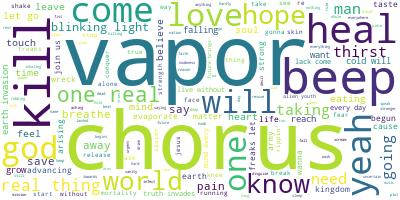
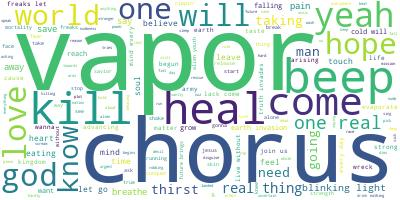
Corrigir chamar funções

diff --git a/graficos.py b/graficos.py
@@ -70,7 +70,7 @@ def grafico_musica_mais_curta_carreira(dataframe):
     plt.title("Músicas mais curtas em toda a carreira")
     plt.subplots_adjust(top=0.96)
     return plt.savefig('imagens\Grupo 1\Músicas mais curtas em toda a carreira.png')
-
+grafico_musica_mais_curta_carreira(dataframe)
 #Músicas mais longas e músicas mais curtas [em toda a história da banda ou artista]
 def grafico_musica_mais_ouvida_carreira(dataframe):
     mais_ouvidas_carreira, menos_ouvidas_carreira = pg.musica_ouvida_carreira(dataframe)
@@ -80,7 +80,7 @@ def grafico_musica_mais_ouvida_carreira(dataframe):
     plt.title("Músicas mais populares em toda a carreira")
     plt.subplots_adjust(top=0.96)
     return plt.savefig('imagens\Grupo 1\Músicas mais populares em toda a carreira.png')
-
+grafico_musica_mais_ouvida_carreira(dataframe)
 def grafico_musica_menos_ouvida_carreira(dataframe):
     mais_ouvidas_carreira, menos_ouvidas_carreira = pg.musica_ouvida_carreira(dataframe)
     grafico = sns.catplot(data=menos_ouvidas_carreira, x="Popularidade", y="Músicas",
@@ -89,7 +89,7 @@ def grafico_musica_menos_ouvida_carreira(dataframe):
     plt.title("Músicas menos populares em toda a carreira")
     plt.subplots_adjust(top=0.96)
     return plt.savefig('imagens\Grupo 1\Músicas menos populares em toda a carreira.png')
-
+grafico_musica_menos_ouvida_carreira(dataframe)
 
 #Voltando o dataframe original para o resto das funções
 dataframe = pd.read_excel('BD - Skillet.xlsx')

diff --git a/testegraf.py b/testegraf.py
@@ -1,6 +1,10 @@
 import seaborn as sns
 import pandas as pd
 import perguntas as pg
+from PIL import Image
+from wordcloud import STOPWORDS, WordCloud, ImageColorGenerator
+import interface as it
+import numpy as np
 
 dataframe = pd.read_excel('BD - Skillet.xlsx')
 sentido_palavras = pd.read_excel('Positive and Negative Word List.xlsx')
@@ -24,11 +28,11 @@ try:
 
     # Gerando a wordcloud
     wctitulo = WordCloud(background_color="white", mask=titulomusicaetmask, contour_width=3, contour_color="black")
-    wctitulo.generate(palavras_titulo_musica)
+    wctitulo.generate(df_negativas)
 
     # Mudando as cores.
     cores = ImageColorGenerator(titulomusicaetmask)
     wctitulo.recolor(color_func=cores)
-    wctitulo.to_file("imagens/Grupo 2/Wc_Titulos_das_Musicas.jpg")
+    wctitulo.to_file("imagens/Grupo 3/Wc_Titulos_das_Musicas.jpg")
 except FileNotFoundError:
     print("A máscara para a wordcloud não foi encontrada.")
